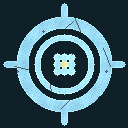
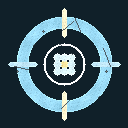
fix: restore configured features and sound mappings

Changed region(s): [[0.0312, 0.0312, 1.0, 1.0]]

diff --git a/tools/generate_audio.py b/tools/generate_audio.py
@@ -1,0 +1,197 @@
+from __future__ import annotations
+
+import math
+from pathlib import Path
+
+import numpy as np
+import soundfile as sf
+
+
+ROOT = Path(__file__).resolve().parents[1]
+SOUND_DIR = ROOT / "src" / "main" / "resources" / "assets" / "veilreach" / "sounds"
+SAMPLE_RATE = 44100
+
+
+def ensure_dir(path: Path) -> None:
+    path.parent.mkdir(parents=True, exist_ok=True)
+
+
+def normalize(audio: np.ndarray, peak: float = 0.9) -> np.ndarray:
+    max_value = float(np.max(np.abs(audio)))
+    if max_value <= 1.0e-6:
+        return audio.astype(np.float32)
+    return (audio * (peak / max_value)).astype(np.float32)
+
+
+def envelope(length: int, attack: float, release: float) -> np.ndarray:
+    env = np.ones(length, dtype=np.float32)
+    attack_len = max(1, int(length * attack))
+    release_len = max(1, int(length * release))
+    env[:attack_len] = np.linspace(0.0, 1.0, attack_len, dtype=np.float32)
+    env[-release_len:] = np.linspace(1.0, 0.0, release_len, dtype=np.float32)
+    return env
+
+
+def sine(freq: float, duration: float, phase: float = 0.0) -> np.ndarray:
+    t = np.linspace(0.0, duration, int(SAMPLE_RATE * duration), endpoint=False, dtype=np.float32)
+    return np.sin((2.0 * math.pi * freq * t) + phase)
+
+
+def noise(duration: float, seed: int, color: str = "white") -> np.ndarray:
+    rng = np.random.default_rng(seed)
+    data = rng.uniform(-1.0, 1.0, int(SAMPLE_RATE * duration)).astype(np.float32)
+    if color == "pink":
+        fft = np.fft.rfft(data)
+        freqs = np.fft.rfftfreq(data.size, 1.0 / SAMPLE_RATE)
+        scale = np.ones_like(freqs)
+        scale[1:] = 1.0 / np.sqrt(freqs[1:])
+        data = np.fft.irfft(fft * scale, n=data.size).astype(np.float32)
+    elif color == "brown":
+        data = np.cumsum(data)
+        data /= np.max(np.abs(data))
+    return data.astype(np.float32)
+
+
+def apply_reverb(signal: np.ndarray, delay_s: float, decay: float, taps: int) -> np.ndarray:
+    delay = int(SAMPLE_RATE * delay_s)
+    output = signal.astype(np.float32).copy()
+    for tap in range(1, taps + 1):
+        start = delay * tap
+        if start >= output.size:
+            break
+        output[start:] += signal[:-start] * (decay ** tap)
+    return output
+
+
+def pan_stereo(signal: np.ndarray, pan: float) -> np.ndarray:
+    left = signal * math.sqrt((1.0 - pan) * 0.5)
+    right = signal * math.sqrt((1.0 + pan) * 0.5)
+    return np.column_stack((left, right)).astype(np.float32)
+
+
+def write_ogg(relative_path: str, data: np.ndarray) -> None:
+    output = SOUND_DIR / relative_path
+    ensure_dir(output)
+    sf.write(output, normalize(data), SAMPLE_RATE, format="OGG", subtype="VORBIS")
+    print(f"wrote {output.relative_to(ROOT)}")
+
+
+def layered_chime(freqs: list[float], duration: float, seed: int, drift: float = 0.004) -> np.ndarray:
+    t = np.linspace(0.0, duration, int(SAMPLE_RATE * duration), endpoint=False, dtype=np.float32)
+    signal = np.zeros_like(t)
+    for index, freq in enumerate(freqs):
+        partial = np.sin(2 * math.pi * freq * t + (index * 0.7))
+        partial += 0.5 * np.sin(2 * math.pi * freq * 2.01 * t + (index * 1.3))
+        partial += 0.18 * np.sin(2 * math.pi * freq * 3.98 * t + (index * 0.2))
+        wobble = 1.0 + (drift * np.sin(2 * math.pi * (0.12 + index * 0.03) * t))
+        signal += partial * wobble * (0.45 / (index + 1))
+    signal *= envelope(signal.size, 0.01, 0.82)
+    signal = apply_reverb(signal, 0.11, 0.58, 4)
+    signal += noise(duration, seed, "pink") * 0.018
+    return signal
+
+
+def make_ui_sigil() -> np.ndarray:
+    base = layered_chime([392.0, 523.25, 783.99], 1.65, 1)
+    whisper = noise(1.65, 2, "pink") * np.linspace(0.15, 0.02, base.size, dtype=np.float32)
+    pulse = sine(1046.5, 1.65) * np.linspace(0.0, 0.18, base.size, dtype=np.float32)
+    return pan_stereo(base + whisper + pulse, -0.1)
+
+
+def make_altar_unlock() -> np.ndarray:
+    low = layered_chime([130.81, 196.0, 261.63], 2.8, 3, drift=0.003)
+    rise = np.linspace(0.2, 1.0, low.size, dtype=np.float32)
+    shock = sine(55.0, 2.8) * rise * 0.35
+    glass = layered_chime([659.25, 880.0, 1174.66], 2.8, 4) * 0.45
+    return pan_stereo(low + shock + glass, 0.0)
+
+
+def make_portal_hum() -> np.ndarray:
+    duration = 5.5
+    t = np.linspace(0.0, duration, int(SAMPLE_RATE * duration), endpoint=False, dtype=np.float32)
+    hum = 0.42 * np.sin(2 * math.pi * 61.0 * t)
+    hum += 0.24 * np.sin(2 * math.pi * 122.0 * t + 0.3)
+    hum += 0.08 * np.sin(2 * math.pi * 245.0 * t + 1.4)
+    modulation = 0.78 + 0.22 * np.sin(2 * math.pi * 0.18 * t)
+    hiss = noise(duration, 5, "pink") * 0.04
+    shimmer = layered_chime([415.3, 622.25], duration, 6) * 0.22
+    signal = (hum * modulation) + hiss + shimmer
+    signal = apply_reverb(signal, 0.16, 0.52, 3)
+    stereo = pan_stereo(signal, 0.12)
+    stereo[:, 1] *= 0.95
+    return stereo
+
+
+def make_whisper_ambient() -> np.ndarray:
+    duration = 6.0
+    t = np.linspace(0.0, duration, int(SAMPLE_RATE * duration), endpoint=False, dtype=np.float32)
+    bed = noise(duration, 7, "brown") * 0.11
+    air = noise(duration, 8, "pink") * 0.04
+    tones = layered_chime([174.61, 261.63, 349.23], duration, 9) * 0.25
+    breaths = np.sin(2 * math.pi * 0.23 * t) * 0.5 + 0.5
+    signal = (bed * breaths) + air + tones
+    return pan_stereo(apply_reverb(signal, 0.19, 0.48, 4), -0.2)
+
+
+def make_rift_ambient() -> np.ndarray:
+    duration = 5.0
+    t = np.linspace(0.0, duration, int(SAMPLE_RATE * duration), endpoint=False, dtype=np.float32)
+    bass = 0.34 * np.sin(2 * math.pi * 73.42 * t + 0.4)
+    wobble = 0.18 * np.sin(2 * math.pi * 146.83 * t * (1.0 + 0.008 * np.sin(2 * math.pi * 0.31 * t)))
+    static = noise(duration, 10, "pink") * 0.05
+    spark = layered_chime([493.88, 739.99], duration, 11, drift=0.01) * 0.2
+    signal = apply_reverb(bass + wobble + static + spark, 0.13, 0.55, 4)
+    return pan_stereo(signal, 0.25)
+
+
+def make_hushling_attack() -> np.ndarray:
+    duration = 0.75
+    scrape = noise(duration, 12, "white") * np.linspace(0.55, 0.0, int(SAMPLE_RATE * duration), dtype=np.float32)
+    sting = sine(220.0, duration) * np.linspace(0.0, 0.4, scrape.size, dtype=np.float32)
+    signal = apply_reverb(scrape + sting, 0.04, 0.38, 2)
+    return pan_stereo(signal * envelope(signal.size, 0.01, 0.55), -0.15)
+
+
+def make_sovereign_pulse() -> np.ndarray:
+    duration = 1.6
+    t = np.linspace(0.0, duration, int(SAMPLE_RATE * duration), endpoint=False, dtype=np.float32)
+    throb = sine(82.41, duration) * np.linspace(0.25, 0.7, t.size, dtype=np.float32)
+    choir = layered_chime([329.63, 415.3, 554.37], duration, 13) * 0.45
+    flare = sine(987.77, duration) * envelope(t.size, 0.02, 0.9) * 0.1
+    signal = apply_reverb(throb + choir + flare, 0.09, 0.62, 4)
+    return pan_stereo(signal, 0.0)
+
+
+def make_music(seed: int, roots: list[float], duration: float, pan: float) -> np.ndarray:
+    t = np.linspace(0.0, duration, int(SAMPLE_RATE * duration), endpoint=False, dtype=np.float32)
+    signal = np.zeros_like(t)
+    for idx, freq in enumerate(roots):
+        slow = np.sin(2 * math.pi * (0.03 + idx * 0.012) * t)
+        layer = np.sin(2 * math.pi * freq * t + idx * 0.4 + slow * 0.12)
+        layer += 0.28 * np.sin(2 * math.pi * (freq * 0.5) * t + idx)
+        signal += layer * (0.16 / (1 + idx * 0.35))
+    shimmer = layered_chime([roots[-1] * 2.0], duration, seed) * 0.08
+    wind = noise(duration, seed + 20, "pink") * 0.018
+    pulse = np.sin(2 * math.pi * 0.055 * t) * 0.05
+    signal = apply_reverb(signal + shimmer + wind + pulse, 0.18, 0.6, 3)
+    stereo = pan_stereo(signal, pan)
+    blend = np.linspace(0.0, 1.0, int(SAMPLE_RATE * 4.0), dtype=np.float32)
+    stereo[:blend.size] *= blend[:, None]
+    stereo[-blend.size:] *= blend[::-1, None]
+    return stereo
+
+
+def main() -> None:
+    write_ogg("ui/astral_sigil.ogg", make_ui_sigil())
+    write_ogg("ui/sealed_altar_unlock.ogg", make_altar_unlock())
+    write_ogg("block/hush_portal_loop.ogg", make_portal_hum())
+    write_ogg("ambient/hushlands_whispers.ogg", make_whisper_ambient())
+    write_ogg("ambient/rift_meadows_resonance.ogg", make_rift_ambient())
+    write_ogg("entity/hushling_lunge.ogg", make_hushling_attack())
+    write_ogg("entity/hush_sovereign_pulse.ogg", make_sovereign_pulse())
+    write_ogg("music/hushlands_dream.ogg", make_music(31, [130.81, 196.0, 261.63, 392.0], 10.0, -0.12))
+    write_ogg("music/hushlands_depths.ogg", make_music(47, [98.0, 146.83, 220.0, 329.63], 10.0, 0.08))
+
+
+if __name__ == "__main__":
+    main()

diff --git a/tools/generate_ui.py b/tools/generate_ui.py
@@ -1,0 +1,82 @@
+from __future__ import annotations
+
+from pathlib import Path
+
+from PIL import Image, ImageDraw, ImageFilter
+
+
+ROOT = Path(__file__).resolve().parents[1]
+GUI_DIR = ROOT / "src" / "main" / "resources" / "assets" / "veilreach" / "textures" / "gui"
+
+
+def ensure() -> None:
+    GUI_DIR.mkdir(parents=True, exist_ok=True)
+
+
+def rgba(hex_value: str, alpha: int = 255) -> tuple[int, int, int, int]:
+    hex_value = hex_value.lstrip("#")
+    return tuple(int(hex_value[index:index + 2], 16) for index in (0, 2, 4)) + (alpha,)
+
+
+def save(name: str, image: Image.Image) -> None:
+    path = GUI_DIR / name
+    image.save(path)
+    print(f"wrote {path.relative_to(ROOT)}")
+
+
+def create_hud_frame() -> Image.Image:
+    image = Image.new("RGBA", (256, 256), (0, 0, 0, 0))
+    draw = ImageDraw.Draw(image)
+
+    for radius, alpha in ((106, 20), (96, 28), (86, 36)):
+        draw.ellipse((128 - radius, 128 - radius, 128 + radius, 128 + radius), outline=rgba("#B7EAF2", alpha), width=2)
+
+    points = [(128, 18), (238, 128), (128, 238), (18, 128)]
+    draw.polygon(points, outline=rgba("#DFF8FF", 110))
+    draw.polygon([(128, 34), (222, 128), (128, 222), (34, 128)], outline=rgba("#7CD0E0", 90))
+
+    for offset in range(-2, 3):
+        draw.line((128 + offset, 48, 128 + offset, 208), fill=rgba("#FFF0C4", 80), width=1)
+        draw.line((48, 128 + offset, 208, 128 + offset), fill=rgba("#9EDDEB", 65), width=1)
+
+    for cx, cy in ((128, 56), (200, 128), (128, 200), (56, 128), (128, 128)):
+        size = 7 if (cx, cy) == (128, 128) else 5
+        draw.rectangle((cx - 1, cy - size, cx + 1, cy + size), fill=rgba("#FFF5D4", 130))
+        draw.rectangle((cx - size, cy - 1, cx + size, cy + 1), fill=rgba("#C5F4FF", 130))
+
+    image = image.filter(ImageFilter.GaussianBlur(0.45))
+    return image
+
+
+def create_corner_crest() -> Image.Image:
+    image = Image.new("RGBA", (64, 64), (0, 0, 0, 0))
+    draw = ImageDraw.Draw(image)
+    draw.polygon([(32, 4), (52, 20), (46, 48), (18, 60), (8, 24)], fill=rgba("#10242E", 175), outline=rgba("#DFF8FF", 200))
+    draw.polygon([(32, 11), (45, 22), (40, 44), (22, 52), (15, 25)], outline=rgba("#7FCBE1", 190))
+    draw.line((32, 15, 32, 45), fill=rgba("#FFF0C4", 220), width=2)
+    draw.line((20, 31, 44, 31), fill=rgba("#BEEAF7", 220), width=2)
+    draw.ellipse((24, 23, 40, 39), outline=rgba("#92DFF2", 200), width=2)
+    return image.filter(ImageFilter.GaussianBlur(0.3))
+
+
+def create_fog_strip() -> Image.Image:
+    image = Image.new("RGBA", (256, 64), (0, 0, 0, 0))
+    draw = ImageDraw.Draw(image)
+    for y in range(64):
+        alpha = int(max(0, 80 - y))
+        draw.rectangle((0, y, 255, y), fill=rgba("#A4D8E2", alpha))
+    for x in range(0, 256, 24):
+        draw.ellipse((x - 18, 10, x + 32, 58), fill=rgba("#DDF8FF", 18))
+        draw.ellipse((x - 8, 0, x + 42, 42), fill=rgba("#7EC8D8", 12))
+    return image.filter(ImageFilter.GaussianBlur(2.2))
+
+
+def main() -> None:
+    ensure()
+    save("hushlands_hud_frame.png", create_hud_frame())
+    save("hushlands_corner_crest.png", create_corner_crest())
+    save("hushlands_fog_strip.png", create_fog_strip())
+
+
+if __name__ == "__main__":
+    main()

diff --git a/src/main/java/com/muguett/veilreach/client/HushlandsHudOverlay.java b/src/main/java/com/muguett/veilreach/client/HushlandsHudOverlay.java
@@ -1,0 +1,41 @@
+package com.muguett.veilreach.client;
+
+import com.muguett.veilreach.VeilreachMod;
+import com.muguett.veilreach.world.dimension.VeilreachDimensions;
+import net.fabricmc.fabric.api.client.rendering.v1.HudRenderCallback;
+import net.minecraft.client.MinecraftClient;
+import net.minecraft.client.gl.RenderPipelines;
+import net.minecraft.client.gui.DrawContext;
+import net.minecraft.util.Identifier;
+
+public final class HushlandsHudOverlay {
+    private static final Identifier HUD_FRAME = Identifier.of(VeilreachMod.MOD_ID, "textures/gui/hushlands_hud_frame.png");
+    private static final Identifier CORNER_CREST = Identifier.of(VeilreachMod.MOD_ID, "textures/gui/hushlands_corner_crest.png");
+    private static final Identifier FOG_STRIP = Identifier.of(VeilreachMod.MOD_ID, "textures/gui/hushlands_fog_strip.png");
+
+    private HushlandsHudOverlay() {
+    }
+
+    public static void initialize() {
+        HudRenderCallback.EVENT.register((drawContext, renderTickCounter) -> render(drawContext));
+    }
+
+    private static void render(DrawContext drawContext) {
+        MinecraftClient client = MinecraftClient.getInstance();
+        if (client.world == null || client.player == null || !client.world.getRegistryKey().equals(VeilreachDimensions.HUSHLANDS_WORLD)) {
+            return;
+        }
+
+        int width = drawContext.getScaledWindowWidth();
+        int height = drawContext.getScaledWindowHeight();
+        float pulse = 0.5F + (0.5F * (float) Math.sin((client.player.age + client.getRenderTickCounter().getTickProgress(false)) * 0.045F));
+
+        drawAlphaTexture(drawContext, FOG_STRIP, 0, Math.max(0, height - 42), width, 42, 0.35F + pulse * 0.12F, 256, 64);
+        drawAlphaTexture(drawContext, CORNER_CREST, 10, 10, 32, 32, 0.65F + pulse * 0.15F, 64, 64);
+        drawAlphaTexture(drawContext, HUD_FRAME, (width / 2) - 48, (height / 2) - 48, 96, 96, 0.18F + pulse * 0.08F, 256, 256);
+    }
+
+    private static void drawAlphaTexture(DrawContext drawContext, Identifier texture, int x, int y, int width, int height, float alpha, int textureWidth, int textureHeight) {
+        drawContext.drawGuiTexture(RenderPipelines.GUI_TEXTURED, texture, x, y, width, height, alpha);
+    }
+}

diff --git a/src/main/java/com/muguett/veilreach/VeilreachModClient.java b/src/main/java/com/muguett/veilreach/VeilreachModClient.java
@@ -1,6 +1,7 @@
 package com.muguett.veilreach;
 
 import com.muguett.veilreach.client.HushlandsClientEffects;
+import com.muguett.veilreach.client.HushlandsHudOverlay;
 import com.muguett.veilreach.client.render.entity.HushlingEntityRenderer;
 import com.muguett.veilreach.client.render.entity.HushSovereignEntityRenderer;
 import com.muguett.veilreach.client.render.entity.LanternkeeperEntityRenderer;
@@ -25,6 +26,7 @@ public final class VeilreachModClient implements ClientModInitializer {
     @Override
     public void onInitializeClient() {
         HushlandsClientEffects.initialize();
+        HushlandsHudOverlay.initialize();
         EntityModelLayerRegistry.registerModelLayer(VeilreachEntityModelLayers.MIRROR_STAG, MirrorStagEntityModel::getTexturedModelData);
         EntityModelLayerRegistry.registerModelLayer(VeilreachEntityModelLayers.HUSHLING, HushlingEntityModel::getTexturedModelData);
         EntityModelLayerRegistry.registerModelLayer(VeilreachEntityModelLayers.HUSH_SOVEREIGN, HushSovereignEntityModel::getTexturedModelData);
